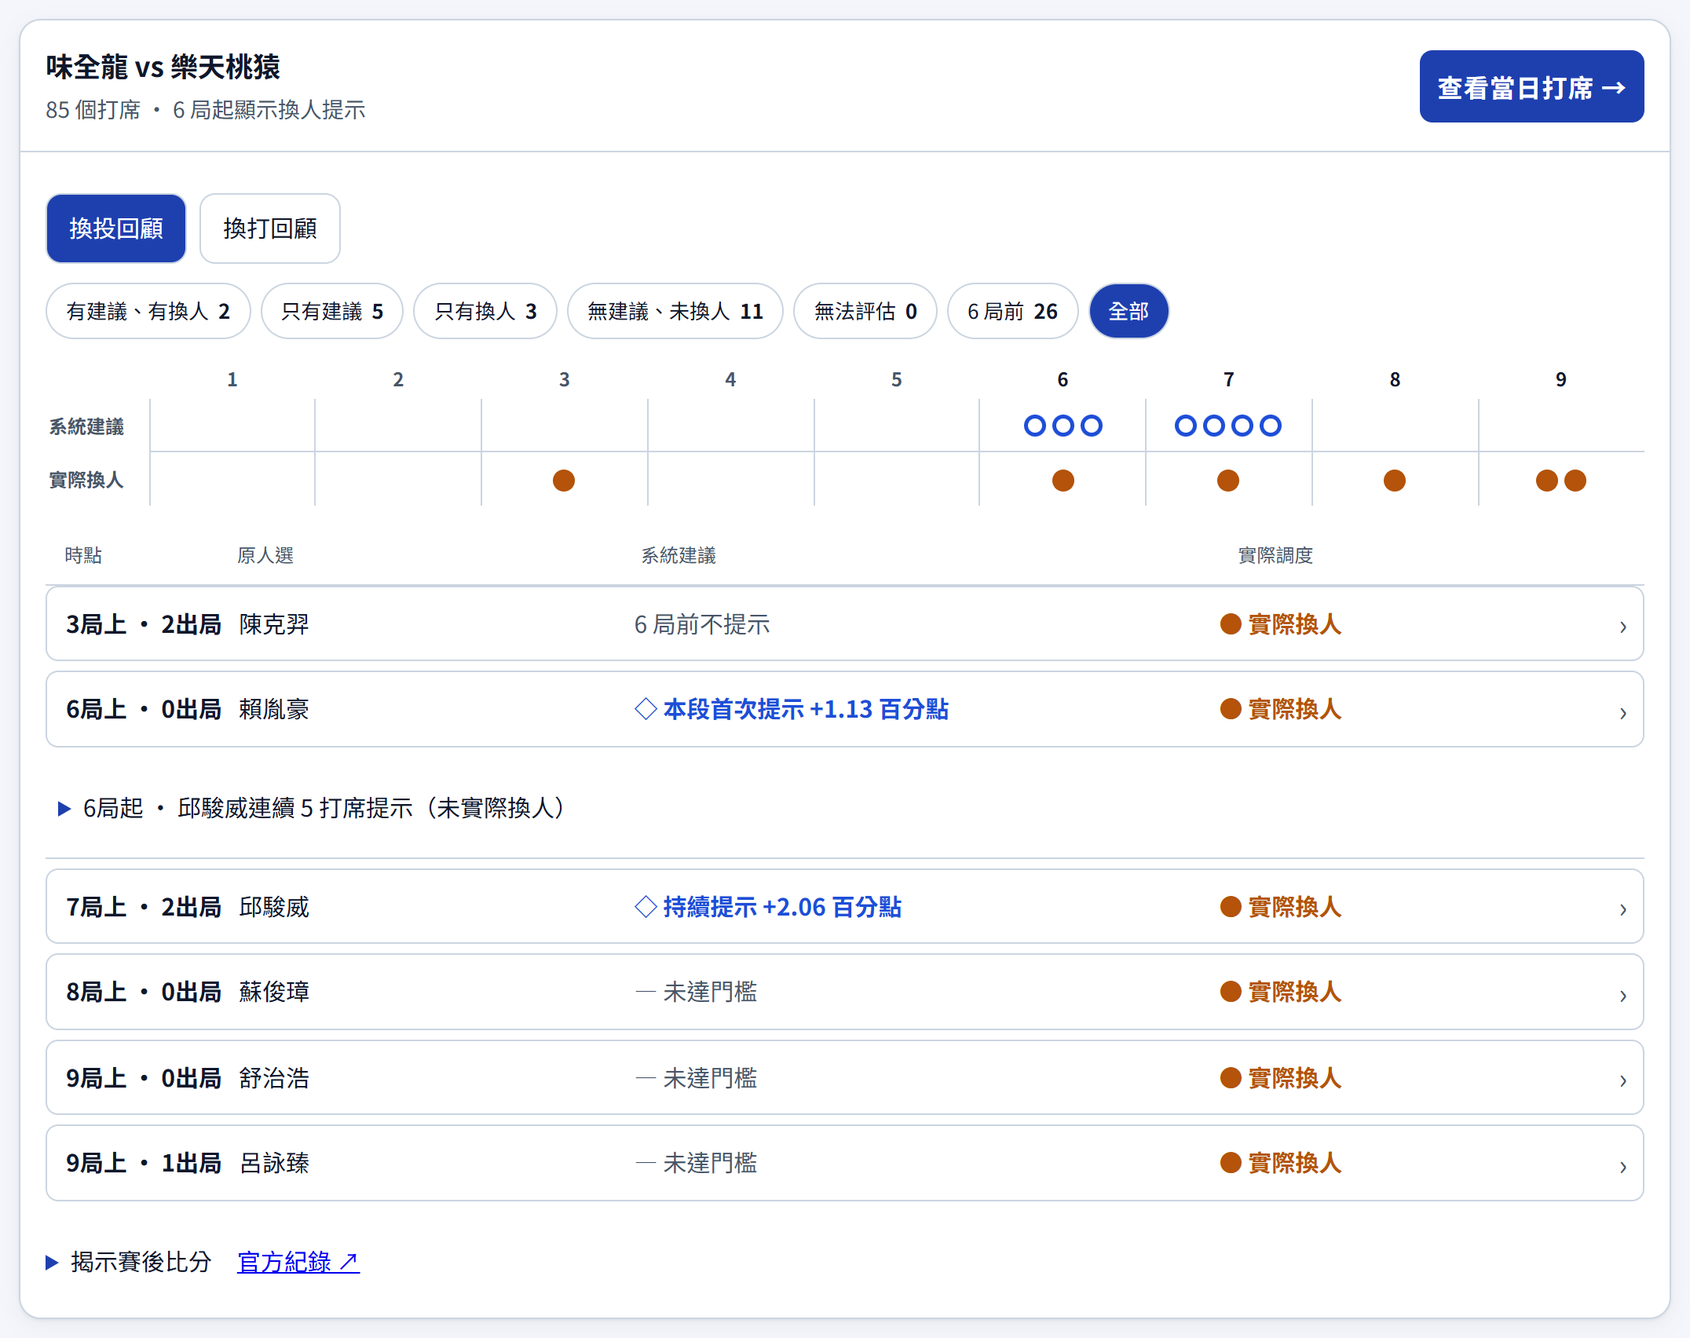
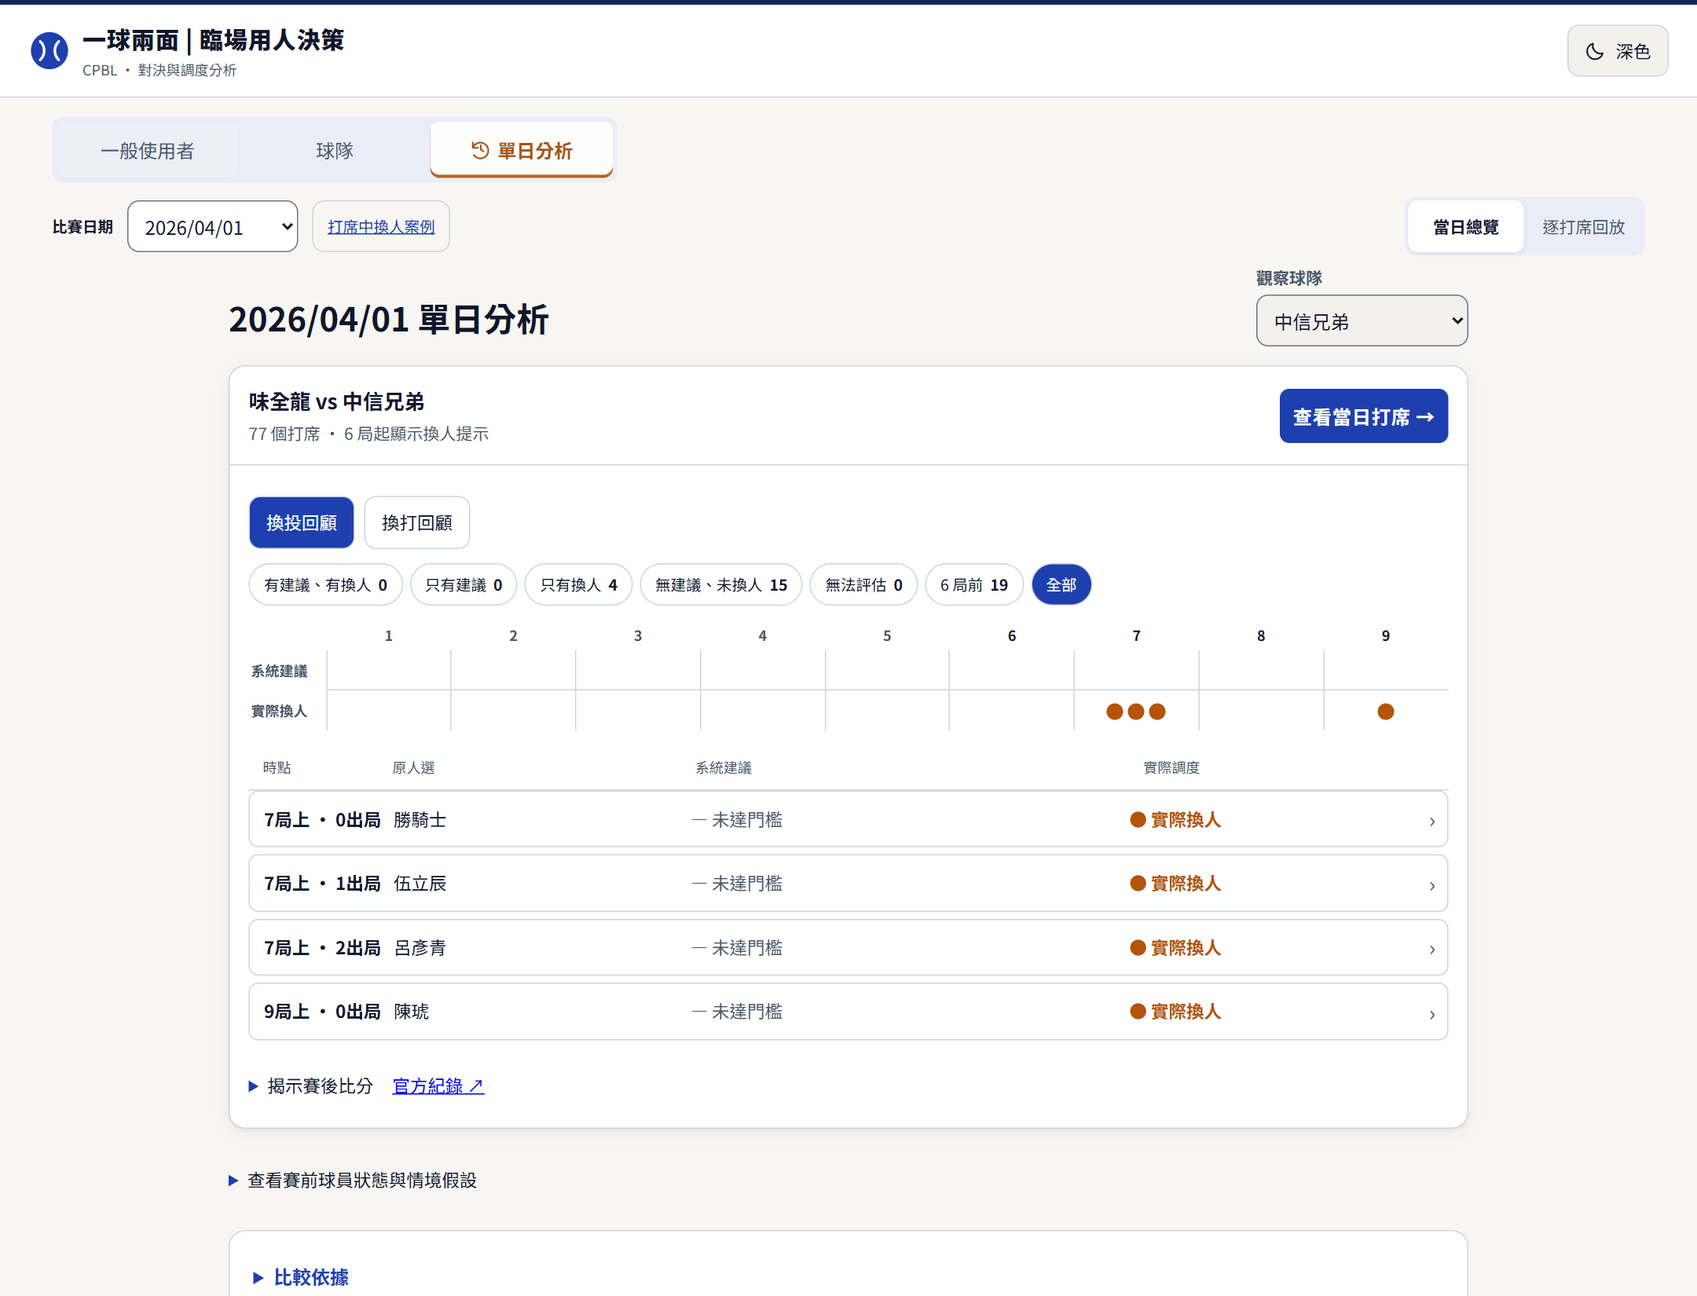
Fix replay link recovery and sync current release documentation

diff --git a/docs/app.js b/docs/app.js
@@ -548,6 +548,7 @@ function setHistoryDate(date) {
   ++historyReviewGeneration;
   ++historyContextGeneration;
   ++historyPitchGeneration;
+  ++timingGeneration;
   clearResult();
   S.games=[]; S.pas=null; S.game=null; S.pa=null; S.replayAvailable=null; S.replayPlayers={};
   historyDisclosure.reset();
@@ -638,7 +639,7 @@ async function showFeaturePage(page, sub, {fromLocation=false} = {}) {
   const skip=PAGE_SKIP[replay?'replay':page];$('.skip-link').href=skip[0];$('.skip-link').textContent=skip[1];
   $$('.feature-nav [data-page]').forEach(b=>{if(b.dataset.page===page)b.setAttribute('aria-current','page');else b.removeAttribute('aria-current');});
   syncEntryNavigation();
-  if(page==='review')await loadReplayDates();
+  if(page==='review'&&!fromLocation)await loadReplayDates();
   if(navigation!==featureGeneration)return;
   if(page==='lineup')await LineupBoard.selectTeam($('#myTeam').value);
   if(page==='review'&&!replay){if(!$('#reviewTeam').value)$('#reviewTeam').value=S.teams[0]||'';await refreshHistoryDay();}
@@ -660,7 +661,7 @@ async function restoreReplayLocation() {
     }
     return;
   }
-  if (target.replay!==DEFAULT_HISTORY_DATE) await loadReplayDates();
+  await loadReplayDates();
   if (token!==replayLocationGeneration||navigation!==featureGeneration) return;
   const knownDate=setHistoryDate(target.replay);
   if (knownDate && !target.pa && !target.game && !target.decision) {
@@ -1143,12 +1144,14 @@ async function run(fn, view, {focusTab,focusControl} = {}) {
 }
 
 /* ---------------- 換人時機比對（src/timing_backtest.py 離線模擬產生） ---------------- */
-let timingData = null;
+let timingData = null, timingGeneration = 0;
 async function loadTiming() {
   if (timingData === null) {
-    const date=HISTORY_DATE;
-    try { const d=await historyJSON('timing.json',{reload:true,date});if(date===HISTORY_DATE)timingData=d.schema_version===2&&d.date===date&&d.season===historySeason&&d.games&&d.threshold===SUGGEST_GAP?d:false; }
-    catch { if(date===HISTORY_DATE)timingData=false; }  // 沒有時機資料時，回放照常使用
+    const date=HISTORY_DATE, request=++timingGeneration;
+    try {
+      const d=await historyJSON('timing.json',{reload:true,date});
+      if(request===timingGeneration)timingData=d.schema_version===2&&d.date===date&&d.season===historySeason&&d.games&&d.threshold===SUGGEST_GAP?d:false;
+    } catch { if(request===timingGeneration)timingData=false; }  // 沒有時機資料時，回放照常使用
   }
   return timingData;
 }
@@ -1273,7 +1276,7 @@ async function renderReview(){
 let historyPitchGeneration=0,historyPitchTeam='';
 const historyPitchSelections=new Map();
 async function replayPitchChange(options){
-  const date=HISTORY_DATE;
+  const date=options.cutoff;
   const index=await historyReplayIndex(date);
   return PitchChange.staticResult({...options,root:historyRoot(date)+'pitch/',batchId:index.batch_id});
 }

diff --git a/docs/index.html b/docs/index.html
@@ -289,6 +289,6 @@
 <script src="backtest.js?v=20261114-2026"></script>
 <script src="bullpen-plan.js?v=20261026-1"></script>
 <script src="bullpen-plan-ui.js?v=multi-day"></script>
-<script src="app.js?v=multi-day"></script>
+<script src="app.js?v=replay-recovery-20261116"></script>
 </body>
 </html>

diff --git a/scripts/check_repository.py b/scripts/check_repository.py
@@ -9,7 +9,7 @@ import unicodedata
 from urllib.parse import unquote, urlsplit
 
 ROOT = Path(__file__).resolve().parents[1]
-CURRENT_DOCS = ['README.md', '協作指南.md', 'docs/技術細節.md', 'docs/qa/README.md',
+CURRENT_DOCS = ['README.md', '協作指南.md', '資料來源.md', 'docs/技術細節.md', 'docs/qa/README.md',
     'presentations/competition-2026/README.md', 'docs/training-v5.md', 'docs/ci-validation.md',
     'docs/qa/code-review-20261029/README.md', 'docs/qa/review-fixes-20261029/README.md',
     'docs/qa/release-readiness-20261029/README.md', 'docs/qa/release-foundation-20261106/README.md',

diff --git a/協作指南.md b/協作指南.md
@@ -45,15 +45,15 @@ git pull
 
 ```bash
 python -m pip install -r requirements.txt
-python download_data.py          # 下載 Rebas 2024–2025 逐球資料與 ldkrsi 守備資料
-python server.py                 # 開啟 http://127.0.0.1:8000
+python download_data.py          # 下載 Rebas 2024–2026 逐球與 ldkrsi 守位，整理 2026 守位
+python start_server.py           # 以 2026 批次開啟 http://127.0.0.1:8000
 ```
 
 | 項目 | 取得方式 |
 |---|---|
 | Rebas、ldkrsi 原始資料 | `python download_data.py` 下載（不進版本控制） |
 | `data/cpbl/positions_2025.csv`（2025 守位） | 已隨專案提供（來源見 [資料來源.md](資料來源.md)） |
-| `models/*_v5.pkl` 與 `models/active-batch.json`（目前批次） | 已隨專案提供；需要重新訓練時見 [技術細節 8.4](docs/技術細節.md#84-更新線上版的模型批次) |
+| `models/2026/`（現行季後模型及批次合約） | 隨專案提供。公開日期的回放 API 可讀取對應已匯出資料。月初權重用於重算，見[技術細節 8.4](docs/技術細節.md#84-更新線上版的模型批次) |
 
 方法比較實驗（`src/ml_compare.py`、`src/experiment.py`）另需 `pip install xgboost lightgbm`。
 
@@ -62,13 +62,12 @@ python server.py                 # 開啟 http://127.0.0.1:8000
 **修改後建議跑的檢查：**
 
 ```bash
-python -m unittest discover -s tests       # Python 測試
-node --test tests/*.cjs                    # 前端測試（需 Node.js）
-python tests/verify_decisions.py           # 前後端一致性與全部回放
-python scripts/prepare_site.py             # 網站靜態資源與資料檢查
+python scripts/run_ci.py                    # Python fixture、JavaScript、文件與靜態資產
+python -m unittest discover -s tests        # 有三季原始資料時執行完整 Python 測試
+python scripts/prepare_site.py --output output/site-preview  # 另存發布目錄與 SHA-256 清單
 ```
 
-> 跑測試會改寫 `output/` 與 `tests/fixtures/` 下的報告檔。若只是換行或時間戳差異，請用 `git checkout -- 檔名` 還原，不要 commit。
+依 [CI 與瀏覽器測試](docs/ci-validation.md)執行手機、平板與桌面操作驗收。現行多日回放的數值重算見[八日回放](docs/qa/website-roadmap-20261115/README.md)。提交前用 `git diff` 確認測試輸出與工作中的檔案。
 
 ## 3. 每次修改的流程
 
@@ -104,14 +103,9 @@ git push -u origin feat/簡短說明            # 3. 推到主專案
 - **只改前端**（HTML／CSS／JS）：不需重新匯出，跑完第 2 節的檢查即可。
 - **改了模型、資料處理或 `src/` 裡影響結果的程式**：需重新匯出網站資料（約 15 分鐘），並依 [技術細節 8.4](docs/技術細節.md#84-更新線上版的模型批次) 的批次流程驗收。
 
-請先讀[技術細節 8.4](docs/技術細節.md#84-更新線上版的模型批次)與[本輪程式審查](docs/qa/code-review-20261029/README.md)。匯出需明確設定 `BASEBALL_STATIC_OUT` 指向新的 `output/` 暫存資料目錄；不要以預設設定直接覆寫 `docs/data/`。重訓使用[候選模型訓練指南](docs/training-v5.md)，先建立來源清單、執行 dry-run，再由獨立候選目錄訓練及驗收。
+請先讀[技術細節 8.4](docs/技術細節.md#84-更新線上版的模型批次)與[現行發布驗收](docs/project-closeout-20261116.md)。將 `BASEBALL_STATIC_OUT` 設為新的 `output/` 子目錄。重現訓練時依所需球季選用對應批次，先建立來源清單，再於獨立目錄訓練及驗收。
 
-Pull Request 合併到 `main` 後，依 GitHub **Settings → Pages** 的設定：
-
-- 來源是 **`main` 分支 `/docs` 資料夾**：網站自動更新。
-- 來源是 **`gh-pages` 分支**：在本機 `main` 執行 `git subtree push --prefix docs origin gh-pages`。
-
-更新後等 1–2 分鐘再到網站確認，必要時按 Ctrl+F5 強制重新整理。
+維護者合併 PR 後，從 GitHub Pages 部署紀錄確認公布的提交 SHA，再重測公開站。現行發布來源是 `main` 的 `/docs`。[發布與回復核對](docs/ci-validation.md#發布與回復核對)
 
 ## 5. 常見問題
 

diff --git a/docs/ci-validation.md b/docs/ci-validation.md
@@ -17,7 +17,7 @@ python scripts/run_ci.py
 
 ## 完整資料驗收
 
-有既有原始資料的環境仍執行完整 Python 測試、tests/verify_decisions.py、實際瀏覽器操作及需要時的候選模型驗收。CI 通過不代表模型效果已證實，也不能取代完整資料驗收。
+使用 2024–2026 原始資料執行 `python -m unittest discover -s tests`。有重算需求時，另依[八日回放驗收](qa/website-roadmap-20261115/README.md)配置月初權重、日期批次與報告目錄，再跑 `tests/verify_history_day.py`。以實際瀏覽器檢查發布資產及操作流程；候選模型效果依[模型實驗](qa/model-horizons-20261113/README.md)的方法另行評估。
 
 目前不設定或變更主分支保護規則；維護者可在 PR 檢查實際成功後，再決定是否將其設為合併條件。新工作流程第一次是否需要核准執行，依 GitHub 專案設定，不預先宣稱雲端 CI 已通過。
 
@@ -28,6 +28,7 @@ python scripts/run_ci.py
 ```powershell
 $env:BASEBALL_QA_URL = 'http://127.0.0.1:8042/'
 node tests/browser_closeout.cjs
+$env:BASEBALL_QA_WIDTHS = '320,390,768,1280'
 node tests/browser_multiday.cjs
 ```
 
@@ -41,10 +42,10 @@ python tests/browser_fault_server.py --port 8030
 
 控制頁 `http://127.0.0.1:8030/__qa__/controls` 可模擬模型／回放 HTTP 503 與延遲，再以同站網站操作恢復。`/__qa__/storage-denied` 在不允許同源的 sandbox iframe 內載入網站，讓瀏覽器真的拒絕 localStorage；不是修改使用者瀏覽器權限或假造應用程式回傳。測試站只綁 127.0.0.1，不複製到 docs 或公開部署。
 
-本輪狀態與證據見 [發布前驗收](qa/release-readiness-20261029/README.md)。
+`browser_multiday.cjs` 會讓日期清單第一次回傳 HTTP 503，驗證在原連結重試後能回到正確打席，並確認真實結果保持收合。其他操作及發布狀態見[現行發布驗收](project-closeout-20261116.md)。
 
 ## 發布與回復核對
 
-1. 審查時記錄提交 SHA、PR 檢查、單日回放批次 ID、逐球模型截止日。用 `python scripts/prepare_site.py --output output/<新發布目錄>` 產生含逐檔 SHA-256 的發布清單。
+1. 審查時記錄提交 SHA、PR 檢查、各回放日期的批次 ID 與逐球模型截止日。用 `python scripts/prepare_site.py --output output/<新發布目錄>` 產生含逐檔 SHA-256 的發布清單。
 2. 維護者合併並部署後，在公開站以新瀏覽器環境和保有舊快取的環境測試。先比對 HTML 中的 CSS／JS 版本，再查回放索引、個別打席、舊連結和簡報下載。確認公開 HTML 來自合併版本後，才記錄部署通過。
 3. 若錯版，先核對 Pages 部署 SHA 和公開 HTML。HTML 正確時比較新舊瀏覽器，若乾淨環境也失敗，查回放索引及資料檔的 HTTP 狀態、批次和雜湊。將受影響網址、最後可用版本與測試結果交給維護者，依其流程回復整批資產。

diff --git a/資料來源.md b/資料來源.md
@@ -11,7 +11,7 @@
 | 2 | ldkrsi 2022–2024 守位 | 判斷球員能守哪些位置 | `python download_data.py` |
 | 3 | 中職官網 2025 守位 | 2025 以後自訂情境的守位判斷 | 已隨專案提供 |
 | 4 | 中職球員編號對照 | 網站連到官網球員頁 | 已隨專案提供 |
-| 5 | 2025 球員背號 | 名單頁用背號搜尋球員 | 已隨專案提供 |
+| 5 | 2026 球員背號 | 現行名單頁用背號搜尋球員 | 已隨專案提供 |
 
 - 第 1、2 項原始資料不放在專案中（見 `.gitignore`），用 `download_data.py` 下載。
 - 網站使用的是由原始資料計算出的結果（`docs/data/`），不公開原始逐場檔。
@@ -70,33 +70,28 @@
 | 存放位置 | `docs/data/cpbl-players.json` |
 | 內容 | 球員姓名 → 中職官網球員編號，用於網站上連結到官網球員頁 |
 
-## 5. 2025 球員背號
+## 5. 2026 球員背號
 
 | 項目 | 內容 |
 |---|---|
-| 來源 | 第 1 項 Rebas 2025 一軍例行賽逐場 JSON 中 `home/awayBatterBox`、`home/awayPitcherBox` 的 `playerNumber` |
+| 來源 | Rebas 2026 一軍例行賽逐場 JSON 中 `home/awayBatterBox`、`home/awayPitcherBox` 的 `playerNumber` |
 | 授權 | ODC-By v1.0，出處：Rebas Sports |
-| 產生方式 | `python scripts/export_player_numbers.py` → `docs/data/player-numbers-2025.json` |
-| 核對結果 | 360 場共 339 組球隊／球員，背號與球員 ID 無衝突、無缺漏；只收錄 2025 有出賽紀錄者 |
+| 產生方式 | `scripts/export_player_numbers.py` 依 2026 素材匯出 `docs/data/player-numbers-2026.json` |
+| 核對結果 | 355 人納入現行背號索引。[球季資料驗收](docs/qa/data-2026-20261114/README.md) |
 
-搜尋規則：限定所選球隊，以背號字串精確比對，保留 0 與 00 的差異；背號不顯示在名單或結果中。只在 2024 出賽的球員仍可用姓名搜尋，不套用其他球季或目前背號。
+背號搜尋依所選球隊精確比對字串，保留 0 和 00 的差異。2025 背號保留供舊批次重現。
 
 ---
 
 ## 快速取得
 
 ```bash
-python download_data.py        # 自動下載第 1、2 項並放到正確位置
+python download_data.py        # 下載逐球與守位來源，整理 2026 實際守位
 ```
 
 第 3–5 項已隨專案提供，不需另外下載。
 
-重新訓練模型（產生 `models/`，約 6 分鐘；一般使用不需要）：
-
-```bash
-cd src
-python mlmodel.py
-```
+現行季後模型隨專案提供。重現時可查閱[三季模型批次](docs/qa/data-2026-20261114/README.md)與[八個月初模型](docs/qa/timing-2026/README.md)。
 
 ## 引用方式（提案／報告用）
 

diff --git a/docs/project-closeout-20261116.md b/docs/project-closeout-20261116.md
@@ -9,6 +9,13 @@
 - 網站涵蓋 **8 個比賽日、24 場、1,873 個打席**。3,746 組攻守視圖及 1,692 筆調度標記均有核對紀錄。
 - [公開網站](https://da-xiong-chen.github.io/baseball_project/) · [PR #38](https://github.com/Da-Xiong-Chen/baseball_project/pull/38) · [Pages 部署](https://github.com/Da-Xiong-Chen/baseball_project/actions/runs/43736382036) · [main 自動檢查](https://github.com/Da-Xiong-Chen/baseball_project/actions/runs/43736383836) · [逐日驗收](qa/website-roadmap-20261115/replay-verification.json) · [部署資產比對](qa/project-closeout-20261116/pages.json)
 
+## 回放連結與切換日期
+
+- 日期索引暫時失敗時，原分享網址和重試入口會保留。重試成功後會回到該日期、比賽、打席與攻守視角，實際結果維持收合。Edge 實測先回傳 HTTP 503，再由使用者點「重新載入日期」。
+- 切換日期會清掉前一日的畫面與資料。單元測試涵蓋從 A 切到 B 再回到 A 時，舊請求失敗不會蓋掉新載入的調度標記。配球比較使用請求自己的日期與回放批次。
+- 靜態站使用 Edge 在 320、390、768、1280 CSS px 重跑多日回放與核心操作，本機 API 另於 390 px 重跑。233 項 JavaScript 測試通過。完整 Python 測試共 173 項，170 項通過，3 項跳過舊版專用案例。重新匯出後比對 2,951 份發布資產，差異限於 `app.js` 與 `index.html`。
+- [PR #39](https://github.com/Da-Xiong-Chen/baseball_project/pull/39) 包含回放連結、日期切換修正、本機 API 改善及文件同步。核對公開部署請依 [CI 說明](ci-validation.md#發布與回復核對)。
+
 ## 本機 API 收尾
 
 使用 `start_server.py` 時，自訂評估用 2024–2026 季後模型。歷史回放依日期使用各自的批次。隨專案提供的 2026 權重目錄只含季後模型，所以本機回放 API 會在找不到當月權重時，讀取同日期的已匯出回放，並查核日期、模型批次、截止日及個別打席 SHA-256。當月權重已配置的環境仍可重算。未公開的日期需要配置對應的月初權重及批次。

diff --git a/docs/qa/README.md b/docs/qa/README.md
@@ -2,7 +2,7 @@
 
 這裡收錄每一輪修改的驗收證據（說明、測試紀錄、截圖與 JSON 結果）。
 
-- **只想看結論**：讀[11/14 改用 2026 球季資料](data-2026-20261114/README.md)與[網站驗收與程式碼審查](release-foundation-20261106/README.md)；模型基準見[v5 整合驗收](identity-integration-20261025/README.md)；原交件版另見[初審驗收](competition-ready-20261023/README.md)。
+- **只想看結論**：讀[現行網站與本機 API 收尾](../project-closeout-20261116.md)、[八日回放與疲勞驗證](website-roadmap-20261115/README.md)及[2026 球季資料與守位](data-2026-20261114/README.md)。原交件版另見[初審驗收](competition-ready-20261023/README.md)。
 - **想核對某項功能**：依下方分類找對應日期的紀錄。
 - 舊紀錄保留作歷史追溯，數字與畫面以當時版本為準；現行說明見 [README](../../README.md) 與 [技術細節](../技術細節.md)。
 
@@ -12,7 +12,7 @@
 
 | 日期 | 紀錄 | 重點 |
 |---|---|---|
-| 11-16 | [專案收尾與發布驗收](../project-closeout-20261116.md) | GitHub Pages 版本核對、本機回放 API、模型結果與交接 |
+| 11-16 | [專案收尾與發布驗收](../project-closeout-20261116.md) | GitHub Pages 版本核對、回放連結故障可重試、本機回放 API、模型結果與交接 |
 | 11-15 | [多日期回放與疲勞研究](website-roadmap-20261115/README.md) | 8 日／24 場回放、手機候選快比、牛棚 A／B、三棒疲勞與勝率校準 |
 | 11-15 | [2026 換投時機回測](timing-2026/README.md) | 360 場、八個月初模型、12,075 個決策點，並與 10/04 回放標記交叉核對 |
 | 11-15 | [季中迭代：每週前推檢驗近期加權](season-iteration-2026/README.md) | 2026 24 週、88,179 球；近期加權沒有更準，網站維持不加權 |

diff --git a/docs/training-v5.md b/docs/training-v5.md
@@ -2,6 +2,8 @@
 
 此入口只訓練既有 2024–2025、九個截止日的 v5 規格；不能用來宣稱 2026 模型或新的近況權重已採用。現有網站不需重訓。輸出始終放在新的 `output/` 子目錄，不覆寫 `models/`、網站資料或 active-batch。
 
+現行網站使用 2024–2026 季後批次。查閱[三季資料和訓練結果](qa/data-2026-20261114/README.md)及[2026 月初模型和換投時機回測](qa/timing-2026/README.md)可取得對應資料、截止日及驗收方式。
+
 ## 1. 準備環境與原始資料
 
 使用 Python 3.10–3.11，安裝根目錄 requirements.txt 並依資料來源文件取得兩季逐場檔及守位來源。以下從專案根目錄執行；`--data-root data` 指向包含 `rebas/2024`、`rebas/2025` 等子目錄的資料根目錄。這是實際訓練來源，不會讀取歷史 output 的 baseline 或 execution-spec。

diff --git a/presentations/competition-2026/README.md b/presentations/competition-2026/README.md
@@ -6,7 +6,7 @@
 
 **2026 換投時機回測補充版** · [PowerPoint（38 頁）](timing-2026/一球兩面_臨場用人決策_2026換投時機回測_38頁.pptx) · [同版 PDF](timing-2026/一球兩面_臨場用人決策_2026換投時機回測_38頁.pdf)
 
-第 13–14 頁改用 2026 全季換投時機回測。網站畫面與其餘內容沿用 11/15 版。
+第 13–14 頁改用 2026 全季換投時機回測。投影片保留 11/15 版展示畫面。現行網站的八日回放、手機候選快比、牛棚 A／B、調度復原與球隊名單備份見[網站功能與驗收](../../docs/project-closeout-20261116.md)。
 
 11/15 版相較 11/14 的更新：
 
